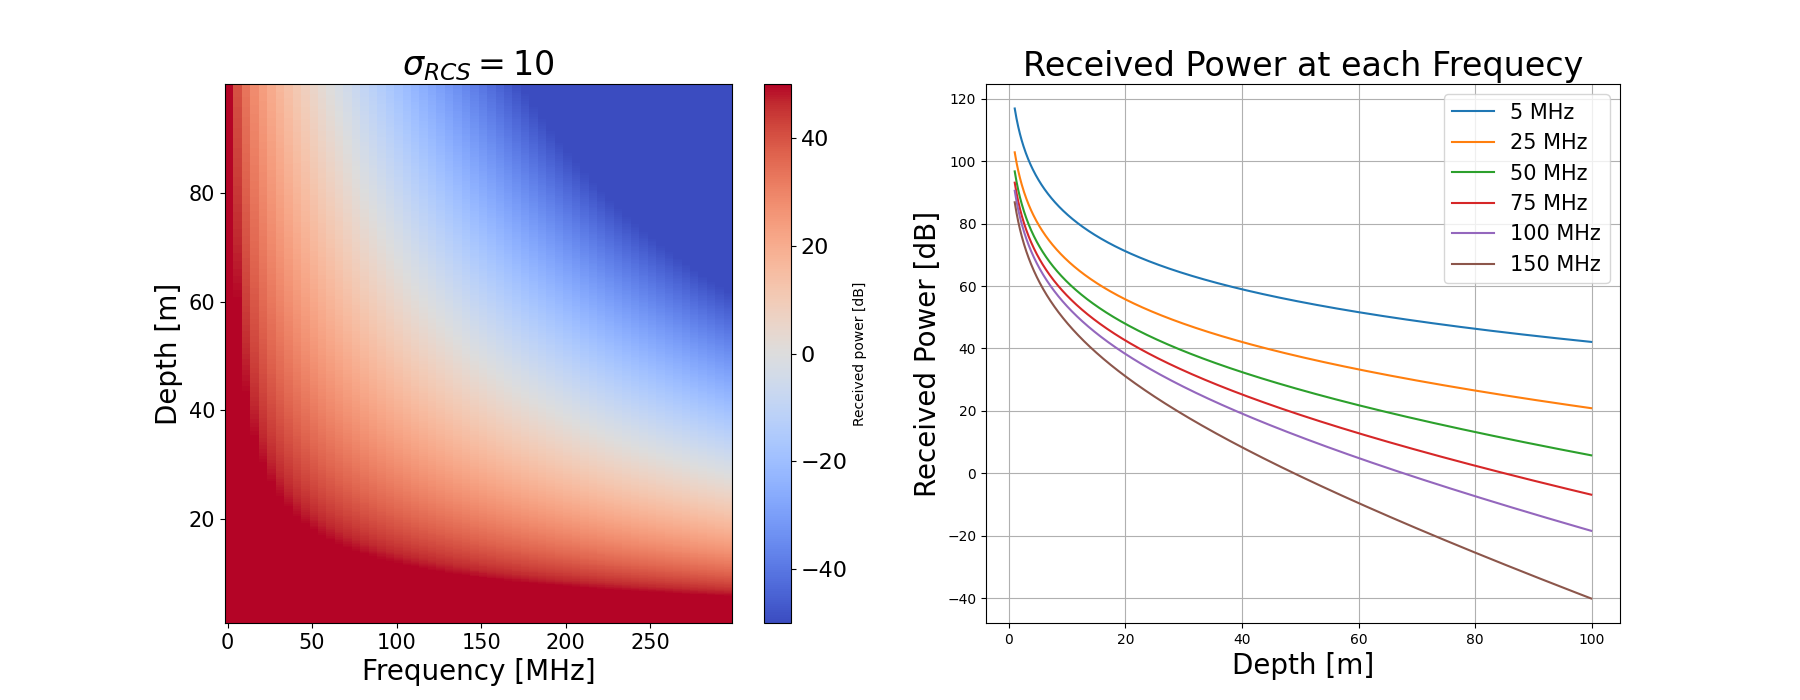
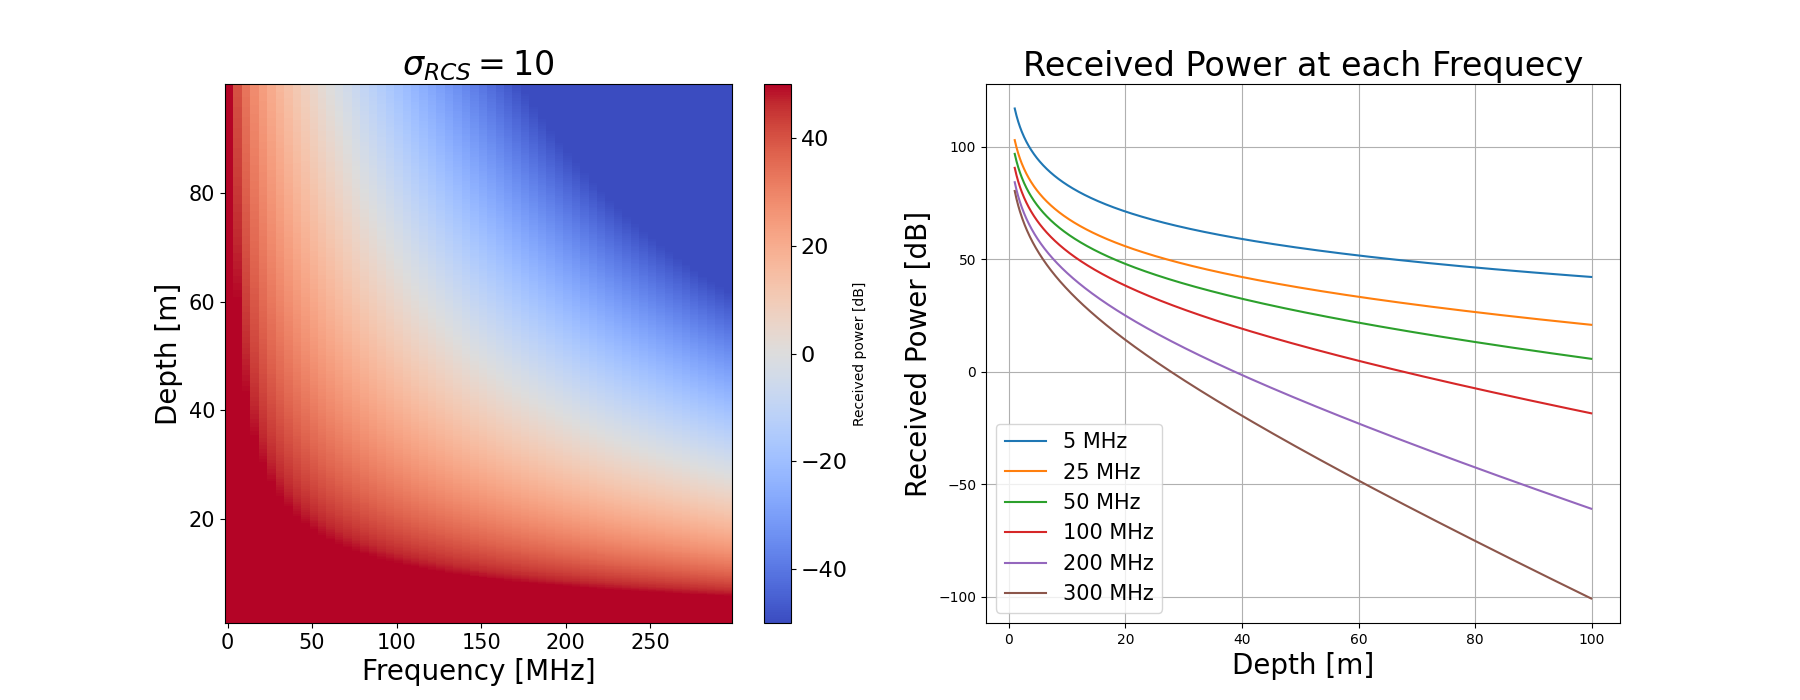
roverの計算を実施

diff --git a/recieved_power_dB.py b/recieved_power_dB.py
@@ -83,7 +83,7 @@ def calc_Pr():
     Pr_3 = calc_Pr_certain_freq(50.0)
     Pr_4 = calc_Pr_certain_freq(100.0)
     Pr_5 = calc_Pr_certain_freq(200.0)
-    Pr_6 = calc_Pr_certain_freq(3000.0)
+    Pr_6 = calc_Pr_certain_freq(300.0)
 
 
 
@@ -131,6 +131,7 @@ def calc_Pr():
     plt.title("Received Power at each Frequecy", size = 24)
     plt.xlabel('Depth [m]', size=20)
     plt.ylabel('Received Power [dB]', size=20)
+    #plt.yscale('log')
     plt.legend(fontsize = 15)
     plt.grid()
     
